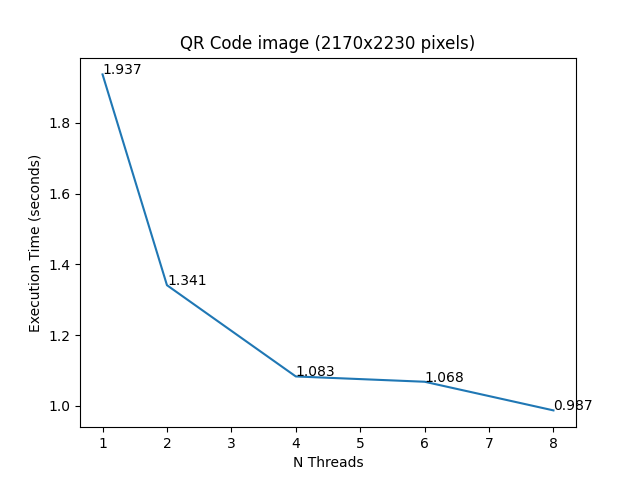
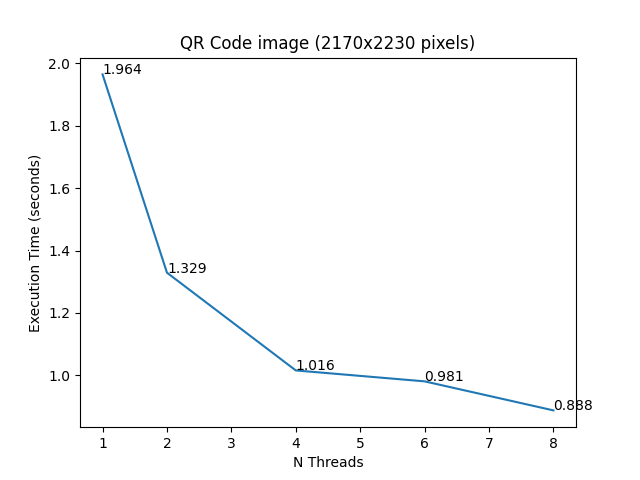
added readme

diff --git a/parallel/src/QRCodeReader.cpp b/parallel/src/QRCodeReader.cpp
@@ -197,66 +197,78 @@ pcomp moduleValue(Image* img, int left, int right, int top, int bottom)
 
 std::string getBinaryCode(Image* img, int left, int right, int top, int bottom)
 {
-	std::ostringstream os;
+	int nthreads = omp_get_max_threads();
+	std::ostringstream ostr[nthreads];
 
-	// TODO: OMP for -> join os
-	for (int y = 0; y < 21; y++)
+	#pragma omp parallel
 	{
-		for (int x = 0; x < 21; x++)
+		int t = omp_get_thread_num();
+		std::ostringstream& os = ostr[t];
+
+		#pragma omp for
+		for (int y = 0; y < 21; y++)
 		{
-			if (
-				!(x <= 7 && y <= 7) &&
-				!(x <= 7 && y >= 13) &&
-				!(x >= 13 && y <= 7)
-			)
+			for (int x = 0; x < 21; x++)
 			{
-				if( moduleValue(
-					img,
-					(int)round(left + x * (right - left) / 21.0),
-					(int)round(left + (x+1) * (right - left) / 21.0),
-					(int)round(top + y * (bottom-top)/21.0),
-					(int)round(top + (y+1) * (bottom - top) / 21.0)
-				) == 0)
-					os << "1";
-				else
-					os << "0";
-
-				#ifdef DEBUG_QR_BINARY
-					bool failed = false;
-					std::string correct = CORRECT_BINARY;
-
-					std::string str = os.str();
-
-					if (str[str.length() - 1] != correct[str.length() - 1])
-					{
-						// std::cout << "failed at x: " << x << " y: " << y << std::endl;
-						// std::cout << "value: " << str[str.length() - 1] << std::endl;
-						// std::cout << std::endl;
-						failed = true;
-					}
-
-					int real_y = top + y * (bottom-top) / 21.0;
-					int real_x = left + x * (right - left) / 21.0;
-					Pixel* p = &img->pixels[real_y][real_x];
-
-					if (failed)
-					{
-						p->r = 255;
-						p->g = 0;
-						p->b = 0;
-					}
+				if (
+					!(x <= 7 && y <= 7) &&
+					!(x <= 7 && y >= 13) &&
+					!(x >= 13 && y <= 7)
+				)
+				{
+					if( moduleValue(
+						img,
+						(int)round(left + x * (right - left) / 21.0),
+						(int)round(left + (x+1) * (right - left) / 21.0),
+						(int)round(top + y * (bottom-top)/21.0),
+						(int)round(top + (y+1) * (bottom - top) / 21.0)
+					) == 0)
+						os << "1";
 					else
-					{
-						p->r = 0;
-						p->g = 255;
-						p->b = 0;
-					}
-				#endif
+						os << "0";
+
+					#ifdef DEBUG_QR_BINARY
+						bool failed = false;
+						std::string correct = CORRECT_BINARY;
+
+						std::string str = os.str();
+
+						if (str[str.length() - 1] != correct[str.length() - 1])
+						{
+							// std::cout << "failed at x: " << x << " y: " << y << std::endl;
+							// std::cout << "value: " << str[str.length() - 1] << std::endl;
+							// std::cout << std::endl;
+							failed = true;
+						}
+
+						int real_y = top + y * (bottom-top) / 21.0;
+						int real_x = left + x * (right - left) / 21.0;
+						Pixel* p = &img->pixels[real_y][real_x];
+
+						if (failed)
+						{
+							p->r = 255;
+							p->g = 0;
+							p->b = 0;
+						}
+						else
+						{
+							p->r = 0;
+							p->g = 255;
+							p->b = 0;
+						}
+					#endif
+				}
 			}
 		}
 	}
 
-	return os.str();
+	std::ostringstream ostrConcat;
+	for(int i = 0; i < nthreads; i++)
+		ostrConcat << ostr[i].str();
+
+
+	return ostrConcat.str();
 }
 
 std::string QRCodeReader::read(Image* img)

diff --git a/parallel/src/processing/ImageProcessor.cpp b/parallel/src/processing/ImageProcessor.cpp
@@ -50,39 +50,56 @@ pcomp ImageProcessor::getOtsuTheshold(Image *img)
 
     int best_t = 0;
     double best_var = 0;
-    // TODO: OMP for ? small loop but large computation -> compare all best_vars
-    for (int t = 0; t < N_COMP_VALS; t++)
+
+    #pragma omp parallel
     {
-        double q1 = 0;
-        for (int i = 0; i <= t; i++)
-            q1 += hist[i];
-        q1 /= total_sum;
+        double best_var_priv = 0;
+        int best_t_priv = 0;
 
-        double q2 = 0;
-        for (int i = t + 1; i < N_COMP_VALS; i++)
-            q2 += hist[i];
-        q2 /= total_sum;
-
-        double u1 = 0;
-        for (int i = 0; i <= t; i++)
-            u1 += i * hist[i];
-        u1 /= total_sum;
-        u1 = q1 == 0 ? 0 : u1 / q1;
-
-        double u2 = 0;
-        for (int i = t + 1; i < N_COMP_VALS; i++)
-            u2 += i * hist[i];
-        u2 /= total_sum;
-        u2 = q2 == 0 ? 0 : u2 / q2;
-
-
-        double var = q1 * q2 * (u1 - u2) * (u1 - u2);
-        if (t == 0 || var > best_var)
+        #pragma omp for
+        for (int t = 0; t < N_COMP_VALS; t++)
         {
-            best_t = t;
-            best_var = var;
+            double q1 = 0;
+            for (int i = 0; i <= t; i++)
+                q1 += hist[i];
+            q1 /= total_sum;
+
+            double q2 = 0;
+            for (int i = t + 1; i < N_COMP_VALS; i++)
+                q2 += hist[i];
+            q2 /= total_sum;
+
+            double u1 = 0;
+            for (int i = 0; i <= t; i++)
+                u1 += i * hist[i];
+            u1 /= total_sum;
+            u1 = q1 == 0 ? 0 : u1 / q1;
+
+            double u2 = 0;
+            for (int i = t + 1; i < N_COMP_VALS; i++)
+                u2 += i * hist[i];
+            u2 /= total_sum;
+            u2 = q2 == 0 ? 0 : u2 / q2;
+
+
+            double var = q1 * q2 * (u1 - u2) * (u1 - u2);
+            if (t == 0 || var > best_var_priv)
+            {
+                best_t_priv = t;
+                best_var_priv = var;
+            }
+        }
+
+        #pragma omp critical
+        {
+            if(best_var_priv > best_var)
+            {
+                best_var = best_var_priv;
+                best_t = best_t_priv;
+            }
         }
     }
+
 
     return best_var;
 }

diff --git a/scripts/timetest.py b/scripts/timetest.py
@@ -2,13 +2,15 @@ import os
 
 NSAMPLES = 8
 
-FILENAME = "QRcode_Very_Large_out.png"
-MAKE_CMD = "make very large"
+FILENAME = "QRcode_Very_Large.png"
+MAKE_CMD = "make very_large"
 RUN_CMD = "./pqrcode.out ../images/input/" + FILENAME + " ../images/output/" + FILENAME + " >> out.txt"
 
 # FILENAME = "QRcode_Large.png"
 # MAKE_CMD = "make large"
 # RUN_CMD = "./pqrcode.out ../images/input/" + FILENAME + " ../images/output/" + FILENAME + " >> out.txt"
+
+averages = []
 
 def average(l):
     return sum(l) / len(l)
@@ -27,7 +29,9 @@ for sample in open("out.txt"):
 print("")
 print("sequential:")
 print("samples:" , samples)
-print("average:", average(samples))
+avg = average(samples)
+averages.append(avg)
+print("average:", avg)
 
 os.chdir("../parallel/")
 print("")
@@ -47,4 +51,9 @@ for nt in ["2", "4", "6", "8"]:
     print("")
     print("parallel" , nt, "threads:")
     print("samples:" , samples)
-    print("average:", average(samples))
+    avg = average(samples)
+    averages.append(avg)
+    print("average:", avg)
+
+print("")
+print("averages list:", averages)

diff --git a/scripts/genplot.py b/scripts/genplot.py
@@ -2,11 +2,11 @@ import matplotlib.pyplot as plt
 
 title = "QR Code image (4340x4460 pixels)"
 nthreads = [1,2,4,6,8]
-times = [9994614.75, 6764518.125, 5462597.0, 5317915.375, 4624276.75]
+times = [10019368.875, 6803757.5, 5276054.625, 5070326.75, 4302069.625]
 
 # title = "QR Code image (2170x2230 pixels)"
 # nthreads = [1,2,4,6,8]
-# times = [1936749.875, 1341230.875, 1083090.875, 1068264.625, 986626.125]
+# times = [1964211.625, 1329297.25, 1016332.75, 980577.25, 888286.875]
 
 for i in range(0, len(times)):
     times[i] /= 1000000

diff --git a/parallel/src/processing/ConnectedComponents.cpp b/parallel/src/processing/ConnectedComponents.cpp
@@ -94,7 +94,6 @@ void applyAdjacencies(Labels* labels, std::vector<std::vector<int>> adjacencies)
 
     // Apply the replacements using the map
 
-    // TODO: parallelize
     for (int y = 0; y < labels->height; y++)
     {
         for (int x = 0; x < labels->width; x++)

diff --git a/README.md b/README.md
@@ -1,0 +1,94 @@
+# Parallel QR Code Reader
+
+![alt text](images/input/pqrcode.png)
+
+### Description
+- A simple QR code reading algorithm implemented in c++ using a sequence of image processing algorithms, accelerated using the OpenMP api.
+- Given that a lot of image transformation algorithms don't contain loop dependencies, these algorithms are easilly parellelized using loop-level parallelism. Other algorithms used in this program, like the connected components algorithm, can be fairly easily partitioned, allowing for parallel execution of these algorithms as well. The aim of this project, is therefore, to study the impact on the execution time of a QR Code reader when parellizing these algorithms.
+- Note: The program currently only supports png images and assumes that there is exactly one QR Code present in the image, and that the QR Code has 21x21 modules..
+
+### Requirments
+  - Unix based OS
+  - g++ compiler
+  - [libpng](http://www.libpng.org/pub/png/libpng.html)
+  - [OpenMP](https://www.openmp.org/)
+
+### Sequential Algorithm
+
+The sequential algorithm, takes as input a pointer to an `Image` object, which contains an array of RGB pixels, and outputs the binary code of the QR Code contained in the image. To acheive this, the program is composed by 6 phases:
+
+- **Binarization:** To convert the image from colored RGB to binary, the otsu threshold is used. This method allows for a threshold that is adaptable to each image, instead of a fixed hardcoded one, which might work better for some images than others.
+
+- **Connected Components:** In order to detect all the different objects (components) in the image, the connected components algorithm is used. To ensure an efficient execution, the classic version of the algorithm was implemented (instead of the iterative). 
+<!-- It should also be noted that even tho the computation of the transitive colsure is performed using a loop with a $N^2$ complexity, given that as the unions are completed, the adjacency lists involved in the union are ignored in the following iterations, the algorithm ends up with an acceptable execution time. -->
+
+- **QR Code Positioning:** After the components have been labeled, the bounding boxes of all the components are computed, and the 3 QR Code positioning blocks are located by finding bounding boxes that share the same center and for which one of the bounding boxes is contained in the other. After this, it's determined which positioning blocks are which (Up-Left, Up-Right and Low-Left).
+
+- **Selective Binarization:** Once the QR Code has been located within the image, a new otsu threshold is calculated, using only the pixels in the region of the QR Code. The original image is then binarized again using this new threshold. It was observed that by redoing the binarization with this more selective threshold, the subsequent reading of the QR Code becomes more precise.
+
+- **Rotation and Shearing:** With the relative positions of the positioning blocks, it is determined how much the image should be rotated and sheared to ensure that the QR Code ends up straight and undistorted.
+
+- **Binary Code Read:** After the image has been binarized, rotated and sheared, the value of each module of the QR Code is calculated using the mode in the region of pixels where (in theory) the module lies. To reduce the interference of pixels from neighbouring modules, instead of using the full region of pixels, only the inner half region of the pixels is actually considered.
+
+### Parallelization
+
+The parallelization of the program using OpenMP is done in three different modules:
+
+- **Image Processor:** To parallelize the image transformation algorithms, I simply used the `omp parallel for` primitive. This way, each thread can compute an equally sized partition of the image simultaneously. Two other funcitons that are also parallelized using this primitive are the `getOtsuTheshold` (which requires some extra logic to select the best threshold between the best thresholds found by each thread) and the `histogramGray` (which requires some extra logic to sum of all the histograms computed by each thread) functions.
+<!-- 
+    ```c++
+    Image Transformations:
+
+    #pragma omp parallel for
+    for(int y = 0; y < img->height; y++)
+    {
+        for(int x = 0; x < img->width; x++)
+        {
+            ...
+        }
+    }
+    ```
+
+    ```c++
+    Otsu:
+
+    #pragma omp parallel
+    {
+        double best_var_priv = 0;
+        int best_t_priv = 0;
+
+        #pragma omp for
+        for (int t = 0; t < N_COMP_VALS; t++)
+        {
+            double var = ...
+
+            if (t == 0 || var > best_var_priv)
+            {
+                best_t_priv = t;
+                best_var_priv = var;
+            }
+        }
+
+        #pragma omp critical
+        {
+            if(best_var_priv > best_var)
+            {
+                best_var = best_var_priv;
+                best_t = best_t_priv;
+            }
+        }
+    }
+    ``` -->
+
+- **Connected Components:** To parallelize the connected components algorithm, the image is partitioned in $N$ equally sized partitions. $N$ threads then perform the connected components algorithm on each partition. Once all the threads have finished, the adjacencies between the borders of each partition are determined, and the labels affected by these adjecencies are replaced.
+
+- **QR Code reading:** Once the image has been processed, the reading of the the modules of the QR Code is also parallelized simply using the `omp parallel for` primitive, allowing different modules to be processed simultaneously by multiple threads. Once all threads have finished, the binary codes generated by each thread are concatenated into the final code.
+
+### Benchmarks
+
+To test the impact of the parallelization of these algorithms a benchmark was developed. This benchmark processes the same image using the sequential and parallel versions of the program with 2,4,6 and 8 threads. To get more precise results, each configuration is executed 8 times, and then the average value of the execution times is used. The following plots show the values generated by this benchmark for 2 images. The first image having 2170x2230 pixels and the second 4340x4460 pixels. From these we can see we can get speedups up to 2.2 and 2.3 respectively.
+
+|   |   |
+|:---:|:---:|
+| ![alt text](plots/time_plot_large.png) | ![alt text](plots/time_plot_very_large.png) |
+| 2170x2230 Image | 4340x4460 Image |
